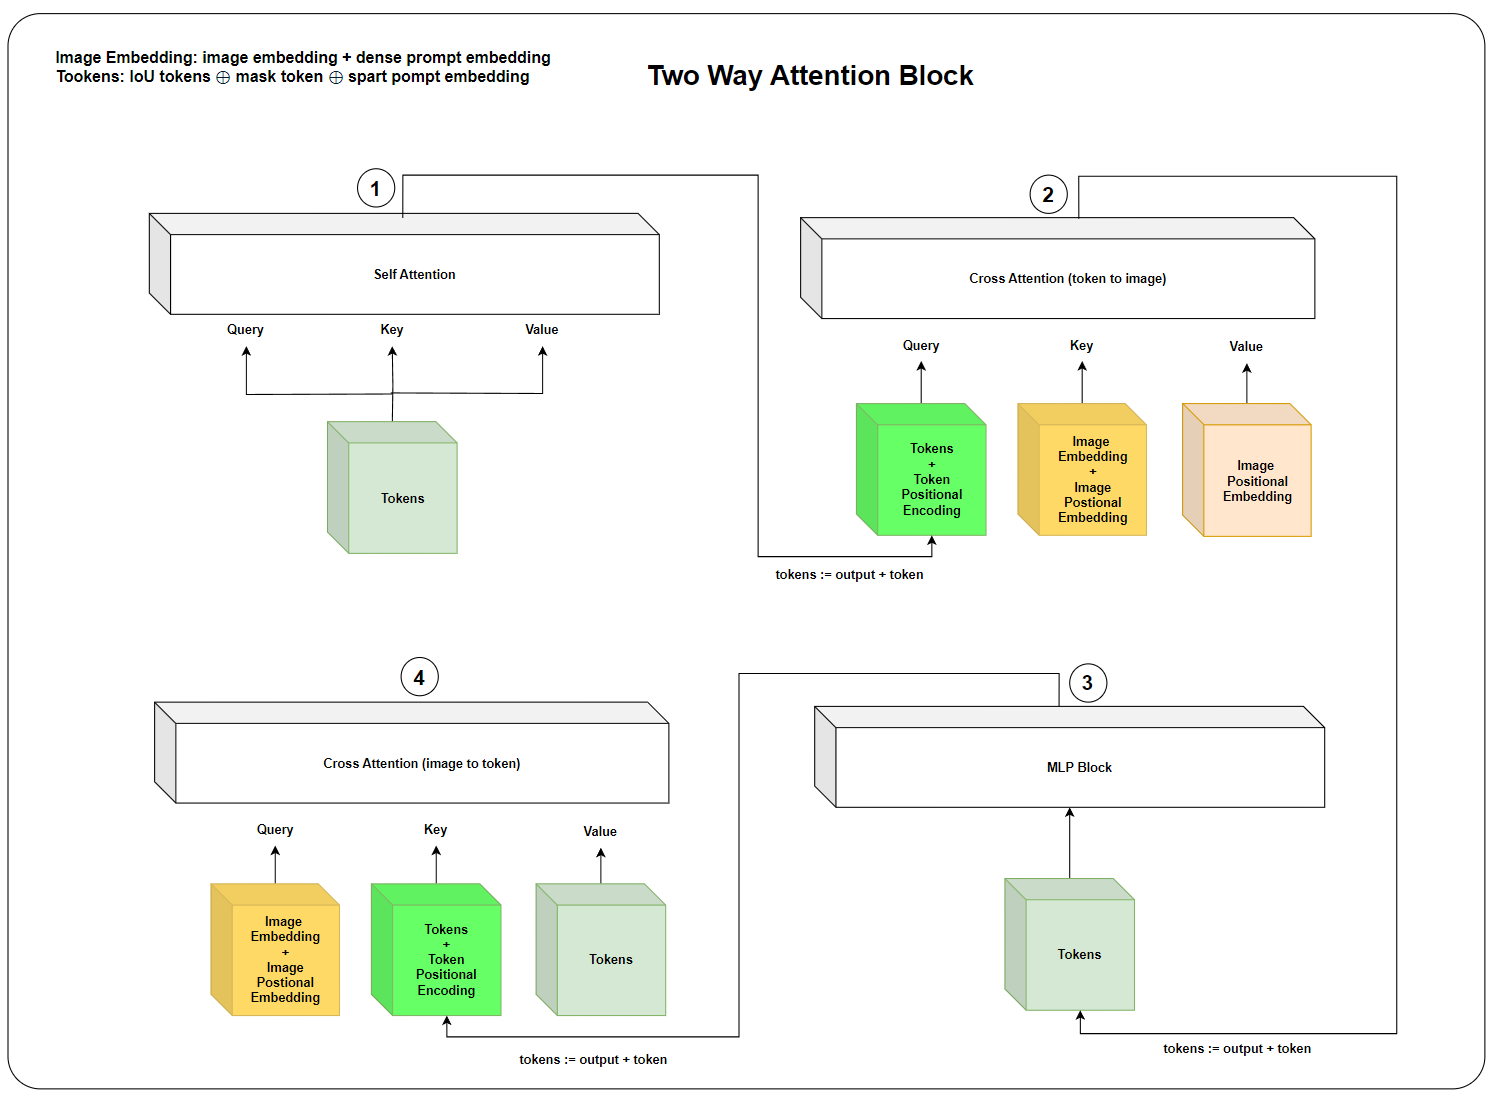
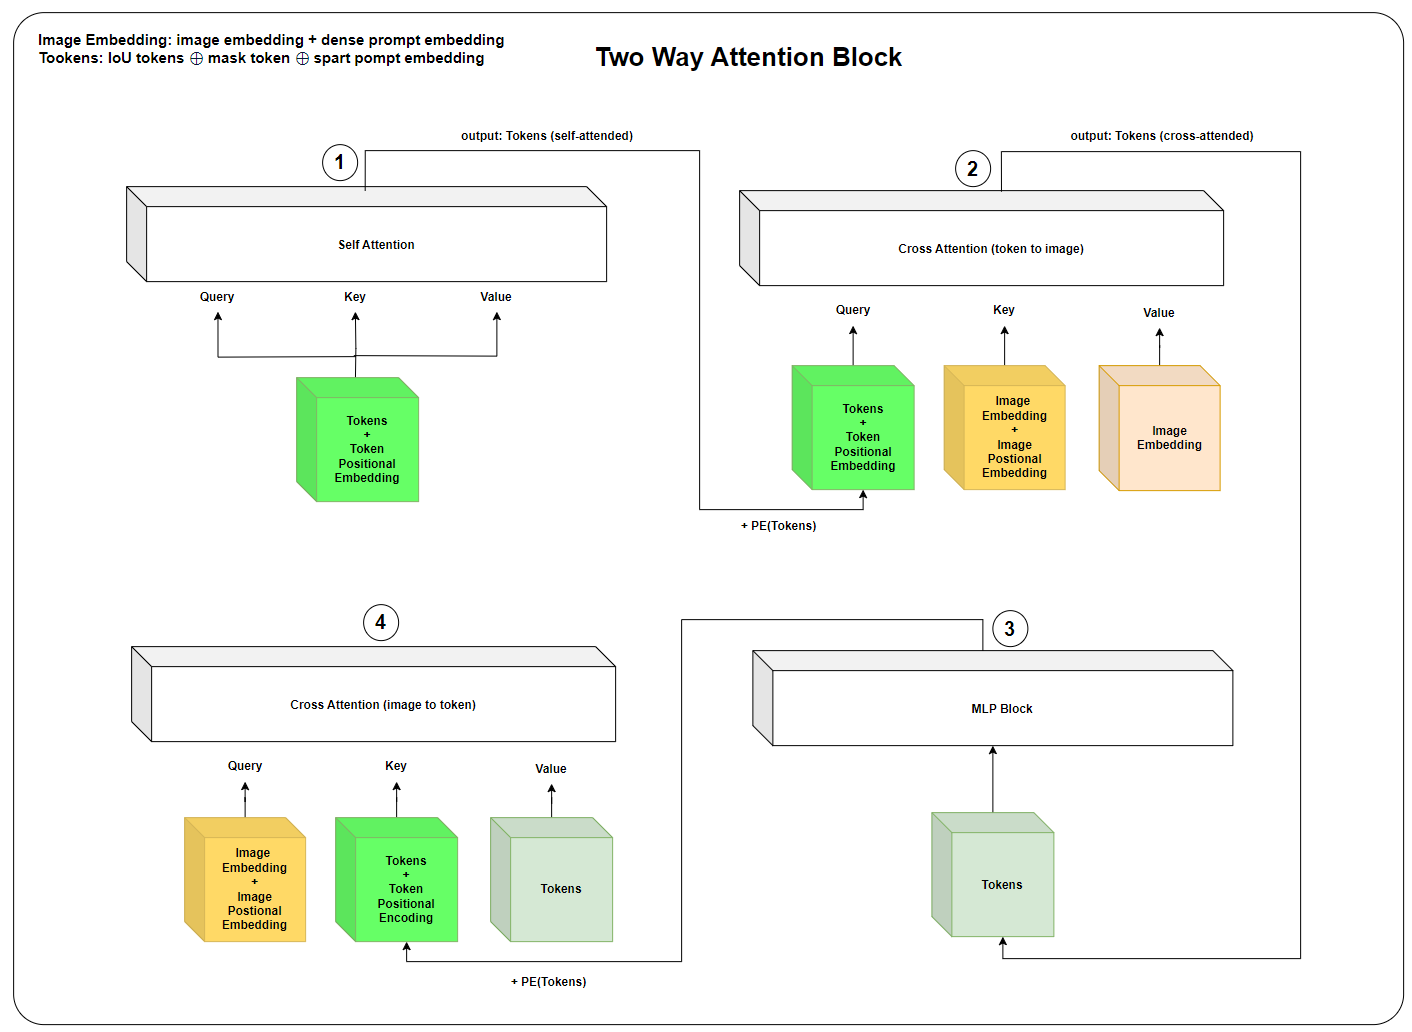
update SAM and SAM2

diff --git a/content/posts/2025-02-06_SAM2.md b/content/posts/2025-02-06_SAM2.md
@@ -53,12 +53,17 @@ The sequence dimension of \(I\) is \(4096\), reshaped from \(64 \times 64\). How
 The object pointer is derived from the first output token of the SAM mask decoder. Instead of relying solely on raw mask features from memory, object pointers provide a compressed representation of object instances. Consider an object that disappears behind another object for a few frames. If we only rely on spatial memory, the model might lose track of the object due to inconsistency between mask features across frames. In contrast, the object pointer provides a more stable and consistent representation of an object across frames.
 
 Let's circle back to the memory attention layer. The diagram below shows a memory attention layer. For simplicity, normalization, dropout, and MLP layers are excluded from the diagram. By default, memory attention has four memory attention layers. 
+Each layer first applies self-attention, allowing the current frame embedding to refine itself by attending to its own spatial features. Then, cross-attention enables the current frame to incorporate relevant information from the memory. **As a result, the memory attention module outputs the conditioned frame feature \(I_{I|\mathcal{M}} \in \mathbb{R}^{B \times 4096 \times 256}\)**, which is subsequently used as input to the mask decoder, instead of unconditioned image embedding \(I\).
 
 ![mask_attention_layer](/images/2025-02-06_SAM2/memory_attention_layer.png)
 
-In the self-attention block, \(I + \text{PE}(I)\) for the query and key, while \(I\) is passed as the value. This gave me question mark because normally, query, key, and value are the same, which is input feature added to positional embedding. But why they didn't add positional embedding for the value? 
+In the self-attention block, \(I + \text{PE}(I)\) for the query and key, while \(I\) is passed as the value. This raised a major question for me because, typically, the query, key, and value are the same—each being the input feature with added positional embedding. This query-key-value modeling was inspired from DETR (DEtection TRansformer).
 
-<!-- The memory attention uses self-attention and cross-attention. If you are not familar with cross-attention, please refer to my [previous post](https://baampark.github.io/posts/2025-01-29_sam/#:~:text=This%20process%20is%20called%20cross%2Dattention.).  -->
+>*It starts by computing so-called query, key and value embeddings after adding the query and key positional encodings - [DETR](https://arxiv.org/pdf/2005.12872)* 
+
+![DETR](/images/2025-02-06_SAM2/DETR.png)
+
+Positional encoding is essential for self-attention because transformers are inherently permutation-invariant—they lack an inherent sense of sequence order. By adding positional encoding to queries and keys, the model can learn spatial relationships and distinguish between positions. However, is it necessary to apply positional encoding to values if it doesn’t improve performance? If not, it would only introduce unnecessary computational overhead.
 
 ## Memory Bank
 >The memory bank retains information about past predictions for the target object in the video by maintaining a FIFO queue of memories of up to N recent frames and stores information from prompts in a FIFO queue of up to M prompted frames. For instance, in the VOS task where the initial mask is the only prompt, the memory bank consistently retains the first frame’s memory along with memories of up to N recent (unprompted) frames. Both sets of memories are stored as spatial feature maps.
@@ -176,8 +181,6 @@ class SAM2Base(torch.nn.Module):
             )
 
         return current_out, sam_outputs, high_res_features, pix_feat
-
-
 ```
 
 ## Memory Attention

diff --git a/content/posts/2025-01-29_SAM.md b/content/posts/2025-01-29_SAM.md
@@ -409,23 +409,11 @@ class MaskDecoder(nn.Module):
 - `tokens`:   mask token \(\oplus\) IoU token \(\oplus\)sparse prompt embeddings
 
 ### 4.2. TwoWayAttention Transformer
-SAM’s mask decoder utilizes a TwoWayTransformer, which differs from a standard transformer decoder by incorporating two cross-attention stages: (1) tokens attending to image features and (2) image features attending to tokens. This bidirectional attention mechanism allows the model to effectively refine mask predictions by leveraging both sparse and dense prompts.
-
-The TwoWayTransformer consists of multiple layers (depth) of TwoWayAttentionBlock modules, followed by a final attention layer for mask prediction. Each TwoWayAttentionBlock contains the following components:
-
-1. Self-Attention (Sparse Queries Only): The mask and IoU tokens attend to themselves, refining their representation.
-
-2. Cross-Attention (Tokens → Image Features): Mask tokens interact with the image embeddings to gather spatial context.
-
-3. MLP Feedforward Block: A standard feedforward network refines the transformed token features.
-
-4. Cross-Attention (Image Features → Tokens): The image embeddings attend back to the mask tokens, allowing a richer feature exchange.
-
-Forward Pass
+SAM’s mask decoder utilizes a TwoWayTransformer, which differs from a standard transformer decoder by incorporating two cross-attention stages: (1) tokens attending to image features and (2) image features attending to tokens. This bidirectional attention mechanism allows the model to effectively refine mask predictions by leveraging both sparse and dense prompts. The TwoWayTransformer consists of multiple layers (depth) of TwoWayAttentionBlock modules, followed by a final attention layer for mask prediction.
 
 The TwoWayTransformer takes three main inputs:
 
-- `image_embedding` (B, 256, 64, 64): Image features from the encoder.
+- `image_embedding` (B, 256, 64, 64): Image features with dense prompt (i.e. \(I + M\)).
 
 - `image_pe` (B, 256, 64, 64): Positional encodings for image features.
 
@@ -451,9 +439,7 @@ for layer in self.layers:
         key_pe=image_pe,
     )
 ```
-We are passing image embedding and image positional embedding for `key` and `key_pe`. But `query_pe` is just copy of `query_pe`. Why are passing the two same values? Well, we don't have a separate postional encoding for `point_embedding`, which is concatenation of IoU tokens, mask tokens, and sparse prompt embeddings. However, the sparse prompt embedding was computed using positional encoding. Even if we are passing the `point_embedding` itself as positional encdoing, it has chance to learn positional information through attention mechanism.
-
- Instead, the embeddings themselves serve both as features and positional encodings, `hence query_pe = point_embedding`.
+We are passing image embedding and image positional embedding for `keys` and `key_pe`. But `query_pe` is just copy of `query`. Why are passing the two arguments for two different parameters? Well, we don't have a separate postional encoding for `point_embedding`, which is concatenation of IoU tokens, mask tokens, and sparse prompt embeddings. However, the sparse prompt embedding was computed using positional encoding. Even if we are passing the `point_embedding` itself as positional encdoing, it has chance to learn positional information through attention mechanism. Instead, the embeddings themselves serve both as features and positional encodings, `query_pe = point_embedding`.
 
 Let's break down the two way attention block. The below diagram is a visualizaation of the two way attention block. 
 
